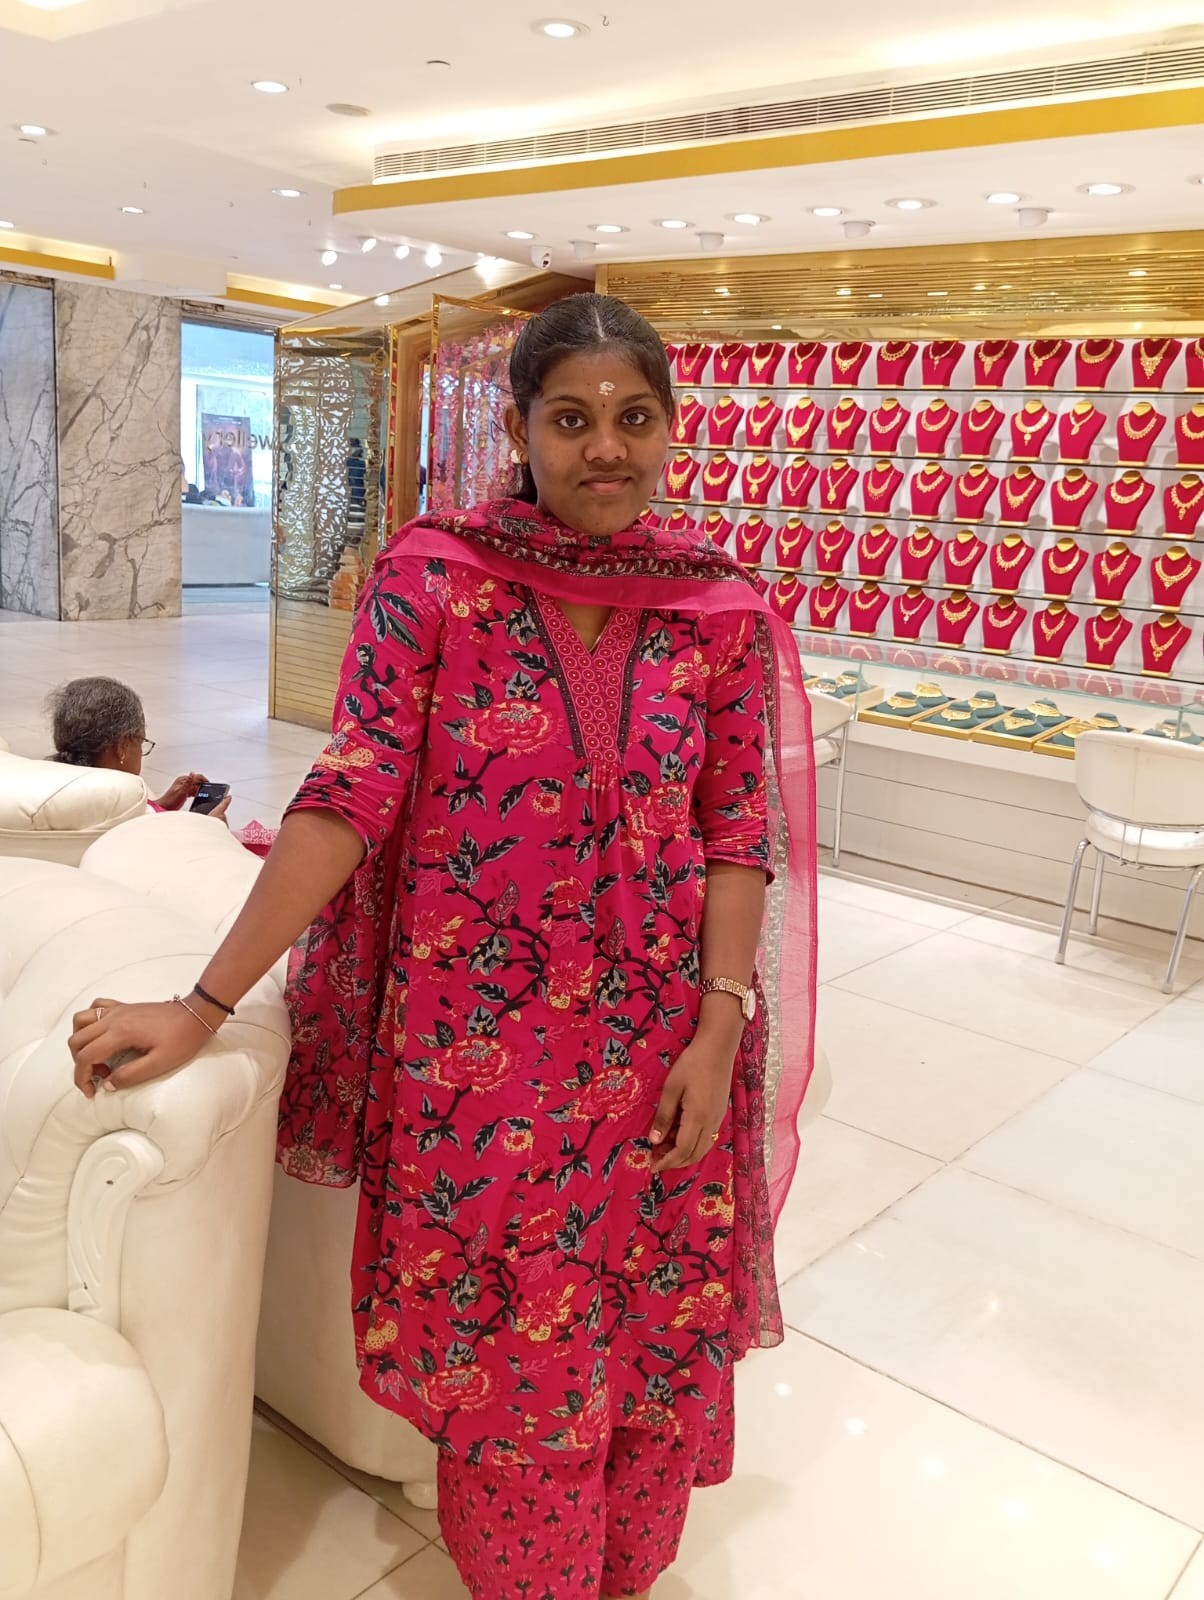
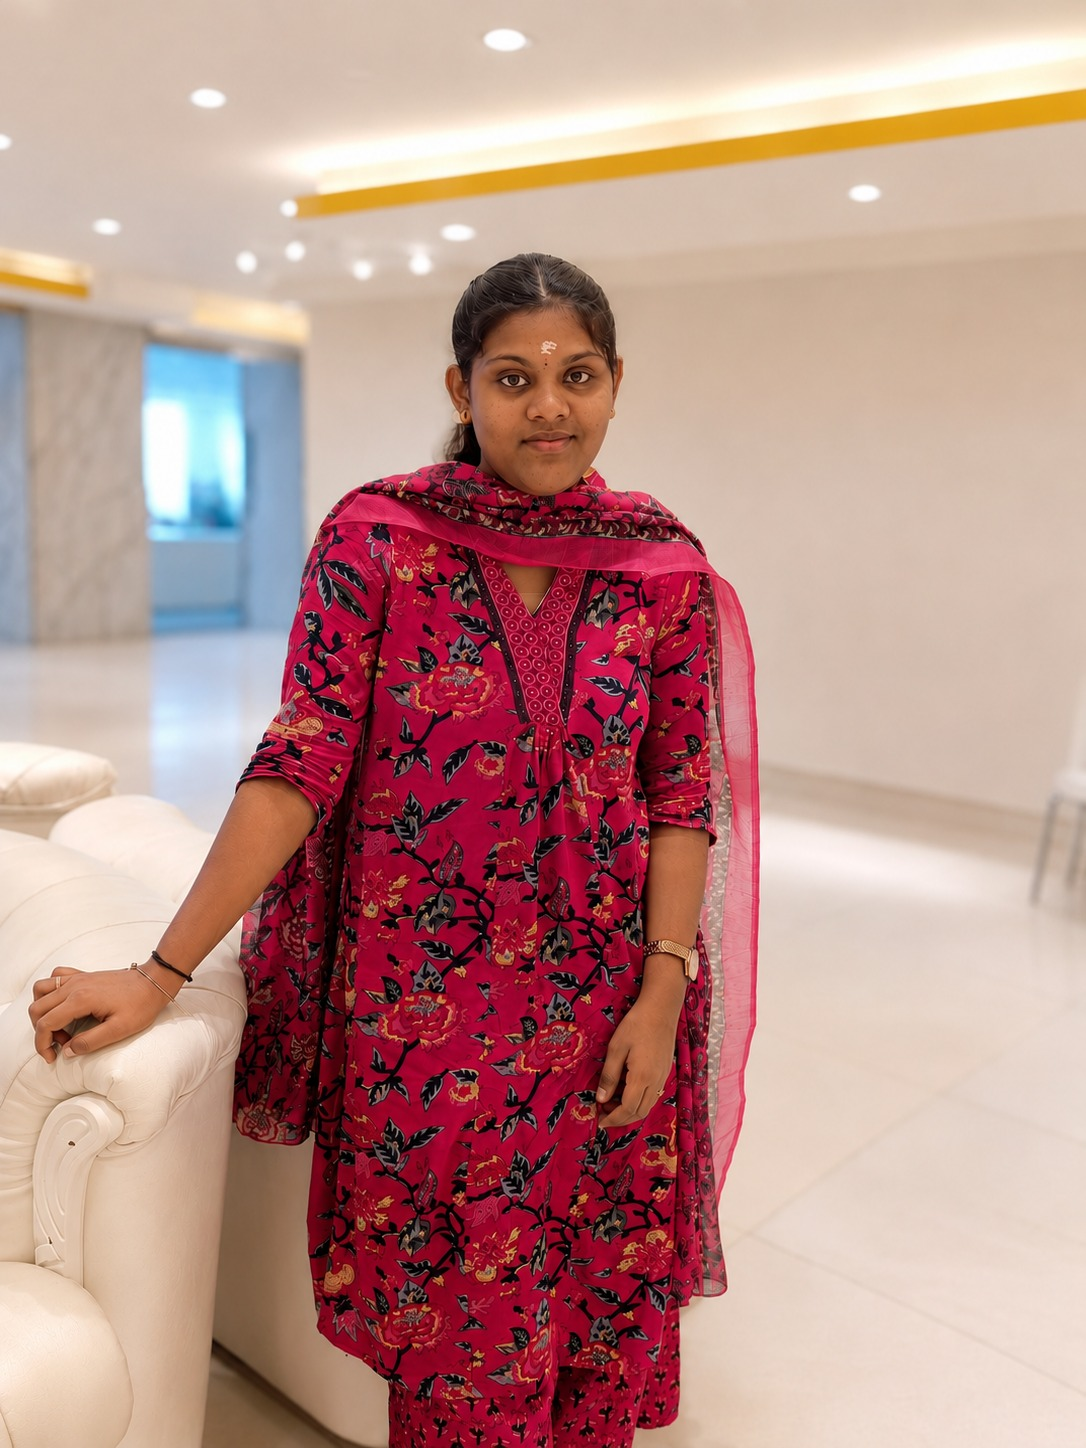
update profile picture

diff --git a/index.html b/index.html
@@ -258,7 +258,7 @@
       <div class="traffic red" onclick="closeWin('photo')"></div>
       <div class="traffic yellow" onclick="minimizeWin('photo')"></div>
       <div class="traffic green" onclick="maximizeWin('photo')"></div>
-      <div class="titlebar-label">My Photo</div>
+      <div class="titlebar-label">Me</div>
     </div>
     <div class="window-body" style="text-align:center;">
       <img src="./images/profile.jpg" alt="Midhuna Varshini" style="max-width:100%; border-radius:12px; box-shadow:0 14px 30px rgba(0,0,0,0.25);">
